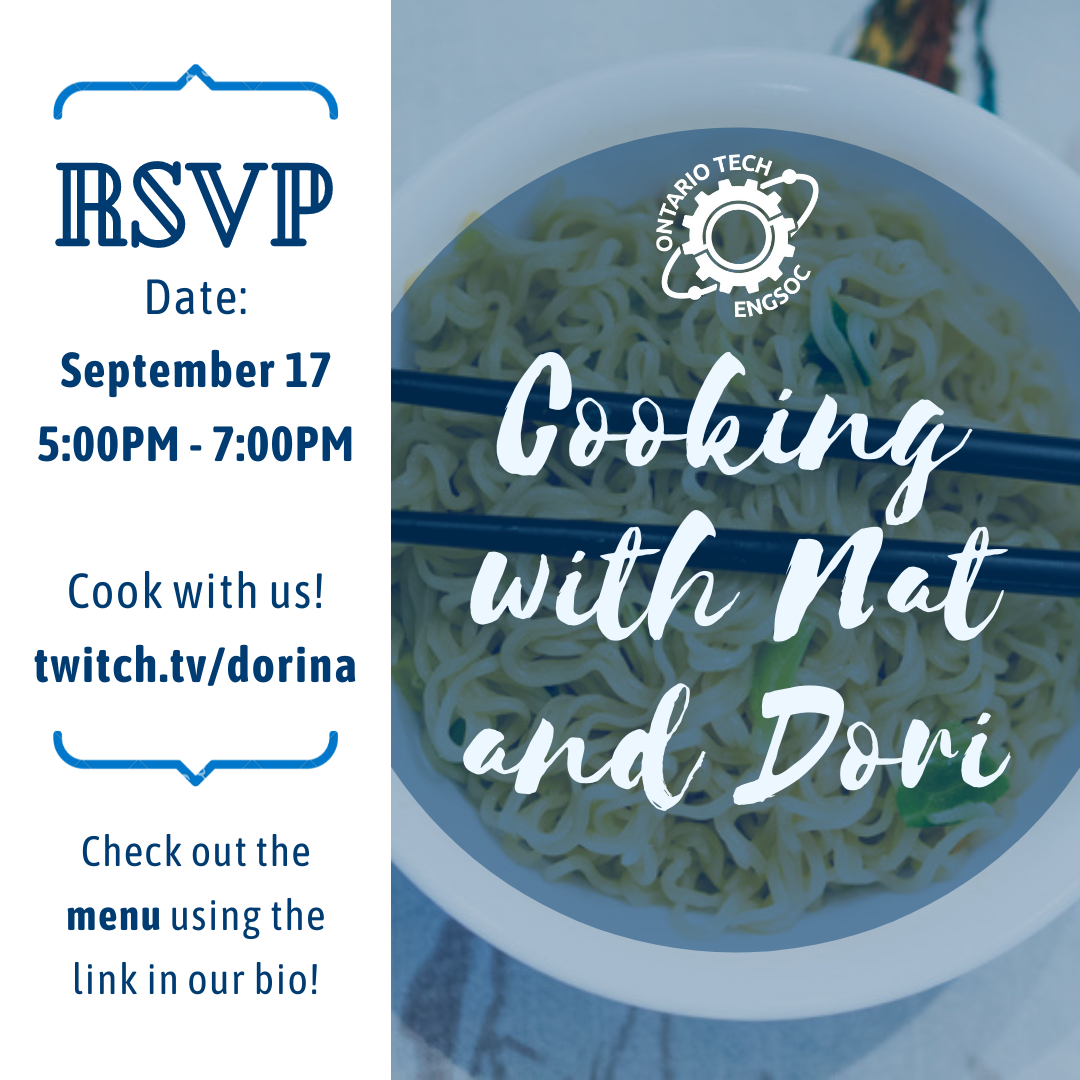
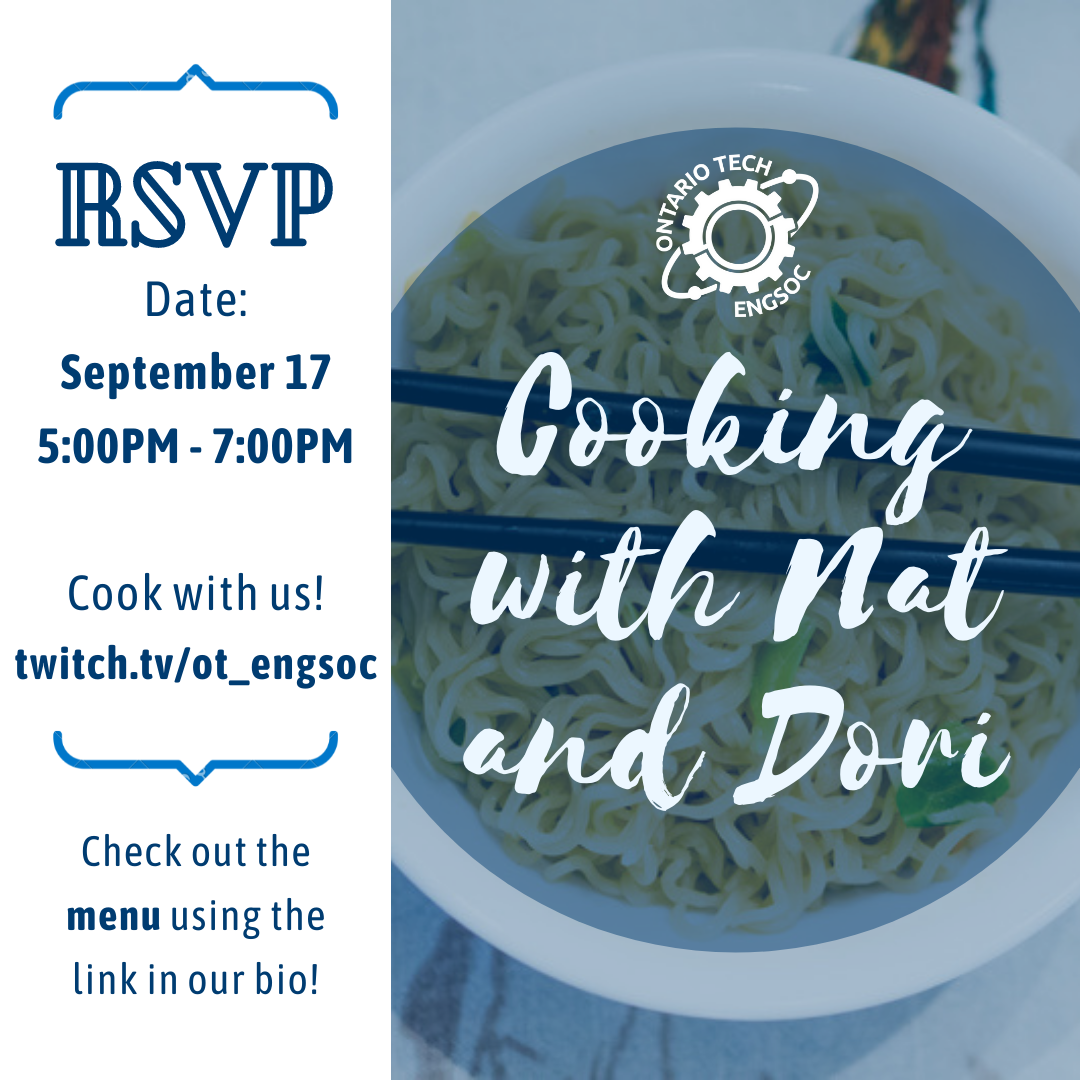
updated events links

diff --git a/Events.html b/Events.html
@@ -64,7 +64,7 @@
 
 										</br>
 										<br>
-										<b>Location: <a href=" "> link</a></b>
+										<b>Location: <a href="https://meet.google.com/ahm-ijer-cvp">Google Meets</a></b>
 										</br>
 										<b>Date:</b> September 15th - 7:00-9:30PM
 										</div>
@@ -86,7 +86,7 @@
 
 									</br>
 									<br>
-									<b>Location: <a href="https://www.twitch.tv/dorina">Twitch</a></b>
+									<b>Location: <a href="https://www.twitch.tv/ot_engsoc">Twitch</a></b>
 									</br>
 									<b>Date:</b> September 17th - 5:00-7:00 PM
 									</div>
